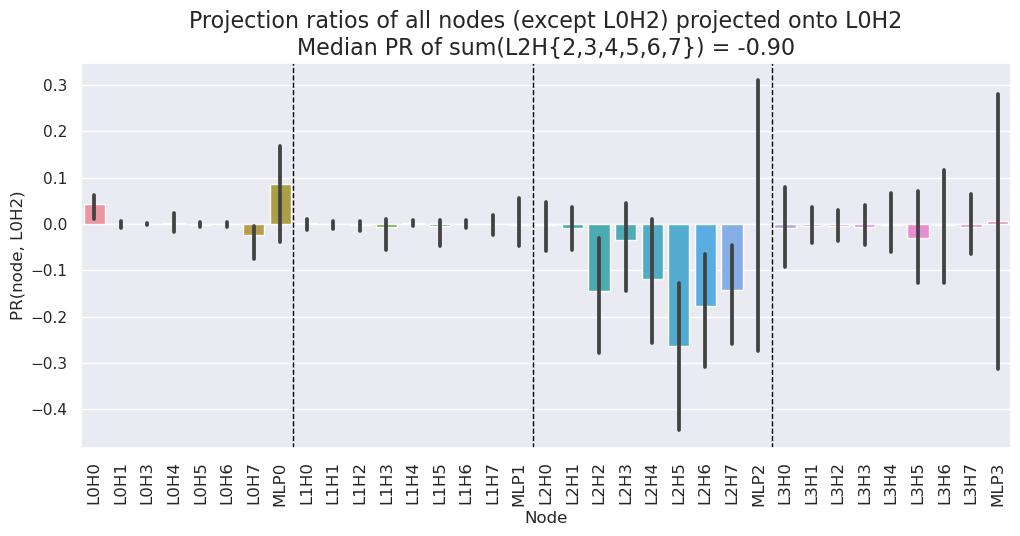
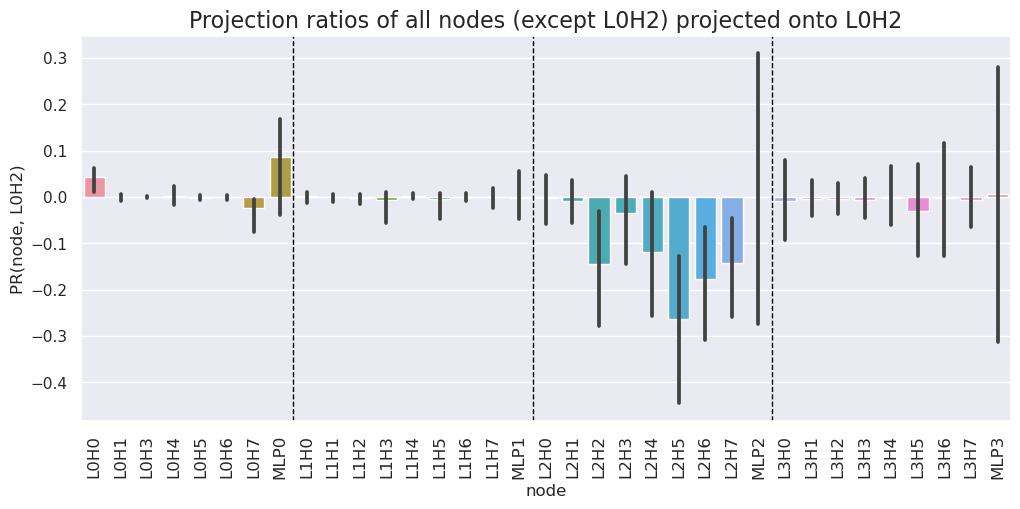
fix scripts and rerun on 300 prompts

diff --git a/figure_recreation/fig4_DLA_resample_ablation.py b/figure_recreation/fig4_DLA_resample_ablation.py
@@ -25,8 +25,8 @@ sns.set()
 torch.set_grad_enabled(False)
 device = "cpu"
 
-N_TEXT_PROMPTS = 2
-N_CODE_PROMPTS = 1
+N_TEXT_PROMPTS = 240
+N_CODE_PROMPTS = 60
 FIG_A_FILEPATH = "figs/fig4a_DLA_resample_ablation.jpg"
 FIG_B_FILEPATH = "figs/fig4b_DLA_resample_ablation.jpg"
 
@@ -284,9 +284,9 @@ fig_b.suptitle(f"DLAs of different heads, with/without resample ablation", fonts
 fig_b.tight_layout()
 
 # %%
-# fig_a.savefig(FIG_A_FILEPATH)
-# fig_b.savefig(FIG_B_FILEPATH)
-# print("Figures saved to: ", FIG_A_FILEPATH, FIG_B_FILEPATH)
+fig_a.savefig(FIG_A_FILEPATH)
+fig_b.savefig(FIG_B_FILEPATH)
+print("Figures saved to: ", FIG_A_FILEPATH, FIG_B_FILEPATH)
 
 
 # Code to find which heads have good anti-examples
